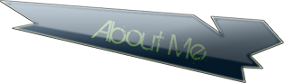
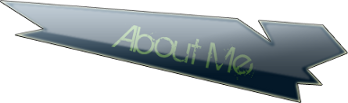
added custom navigation bar ahead of schedule. Updated my about page to contain some sort of information

diff --git a/public/stylesheets/custom.css b/public/stylesheets/custom.css
@@ -1,9 +1,15 @@
-
-
 h1 {
-  background-image:url('/images/contentBanner.png');
+  background-image:url('/images/contentBanner2.png');
   padding-bottom: 5px;
-  padding-left: 10px;
+  padding-left: 100px;
+  color: #6d8867; 
+  font-weight: bolder;
+  font-size: 46px;
+}
+
+h2 {
+  color: #2d5824; 
+  font-weight: bolder;
 }
 
 h3 {
@@ -36,46 +42,59 @@ background-clip: initial;
 }
 
 #header {
+  z-index: -1;
   margin: auto;
   width: 960px;
   height: 256px;
 }
 
 #header-logo {
+  position: relative;
   width: 650px;
+  height: 256px;
+  float: left;
+}
+
+#header-menu {
+  position: relative;
+  width: 50px;
+  height: 256;
   float: left;
 }
 
 .logo {
-  float: left;
+  position: absolute;
+  left: -100px;  
+  z-index: 3;
+  top: -20px;
 }
 
-.navhome{
-  margin-top: 8px;
-  margin-bottom: -24px;
+#navhome {
+  position: absolute;
+  top: 0px;
+  z-index: 2;
 }
 
-.navabout{
-  margin-bottom: -14px;
+#navabout {
+  position: absolute;
+  top: 50px;
+  z-index: 2;
 }
 
-.navproject{
-  margin-bottom: -24px;
+#navprojects {
+  position: absolute;
+  top: 140px;
+  z-index: 2;
 }
 
-.navcontact{
-  margin-top: -14px;
-  margin-bottom: -14px;
-}
-
-#header-menu {
-  width: 50px;
-  height: 256;
-  text-align: left;
-  float: left;
+#navcontact{
+  position: absolute;
+  top: 210px;
+  z-index: 2;
 }
 
 #main-content {
+  z-index: 1;
   float: left;
   width: 960px;
   position: relative;
@@ -92,43 +111,14 @@ background-clip: initial;
 
 .page-info {
   padding-left: 5px;
-}
-
-#sidebar-title {
-  height: 35px;
-  border-bottom: 1px solid #a4d3ee;
-  font-size: 1.6em;
-  font-weight: normal;
-}
-
-#sidebar {
-  border: 2px solid #a4d3ee;
-  background: #fff;
-  width: 175px;
-  float: right;
-}
-
-#sidebar ul {
-  padding-left: 30px;
-}
-
-#sidebar li{
-  margin: .5em 0px;
-  text-align: left;
-}
-
-#sidebar li:hover {
-  background: #a4d3ee;
-}
-
-#sidebar ul{
-  font-weight: bold;
-  list-style-type: none;
+  font-family:  sans-serif;
+  color: #768d70;
+  font-size: 16px;
 }
 
 a {
   color: #09c;
-  text-decoration: none;
+  text-decoration: underline;
 }
 
 a:hover {
@@ -140,3 +130,20 @@ a:visited {
   color: #069;
 }
 
+#footer-image {
+        position: fixed;
+        bottom: 0px;
+        center: 0px;
+        margin: auto;
+        background: url('/images/footer.png') no-repeat;
+        width: 1000px;
+        height: 176px;
+        display: block;
+        text-indent: -10000px;
+        margin-bottom: -5px;
+        z-index: 3;
+}
+
+#white-space{
+  height: 100px;
+}

diff --git a/public/javascripts/application.js b/public/javascripts/application.js
@@ -1,2 +1,36 @@
 // Place your application-specific JavaScript functions and classes here
 // This file is automatically included by javascript_include_tag :defaults
+$(document).ready(function() {
+    $('#navhome').hover(
+      function() {
+        $(this).stop().animate({ left: '50', width: '476' });
+      },
+      function() {
+        $(this).stop().animate({ left: '0', width: '398' });
+      }
+   );
+    $('#navabout').hover(
+      function() {
+        $(this).stop().animate({ left: '50', width: '428' });
+      },
+      function() {
+        $(this).stop().animate({ left: '0', width: '348' });
+      }
+   );
+    $('#navprojects').hover(
+      function() {
+        $(this).stop().animate({ left: '50', width: '431' });
+      },
+      function() {
+        $(this).stop().animate({  left: '0', width: '351' });
+      }
+   );
+    $('#navcontact').hover(
+      function() {
+        $(this).stop().animate({ left: '50', width: '500'});
+      },
+      function() {
+        $(this).stop().animate({ left: '0', width: '420'});
+      }
+   );
+});
